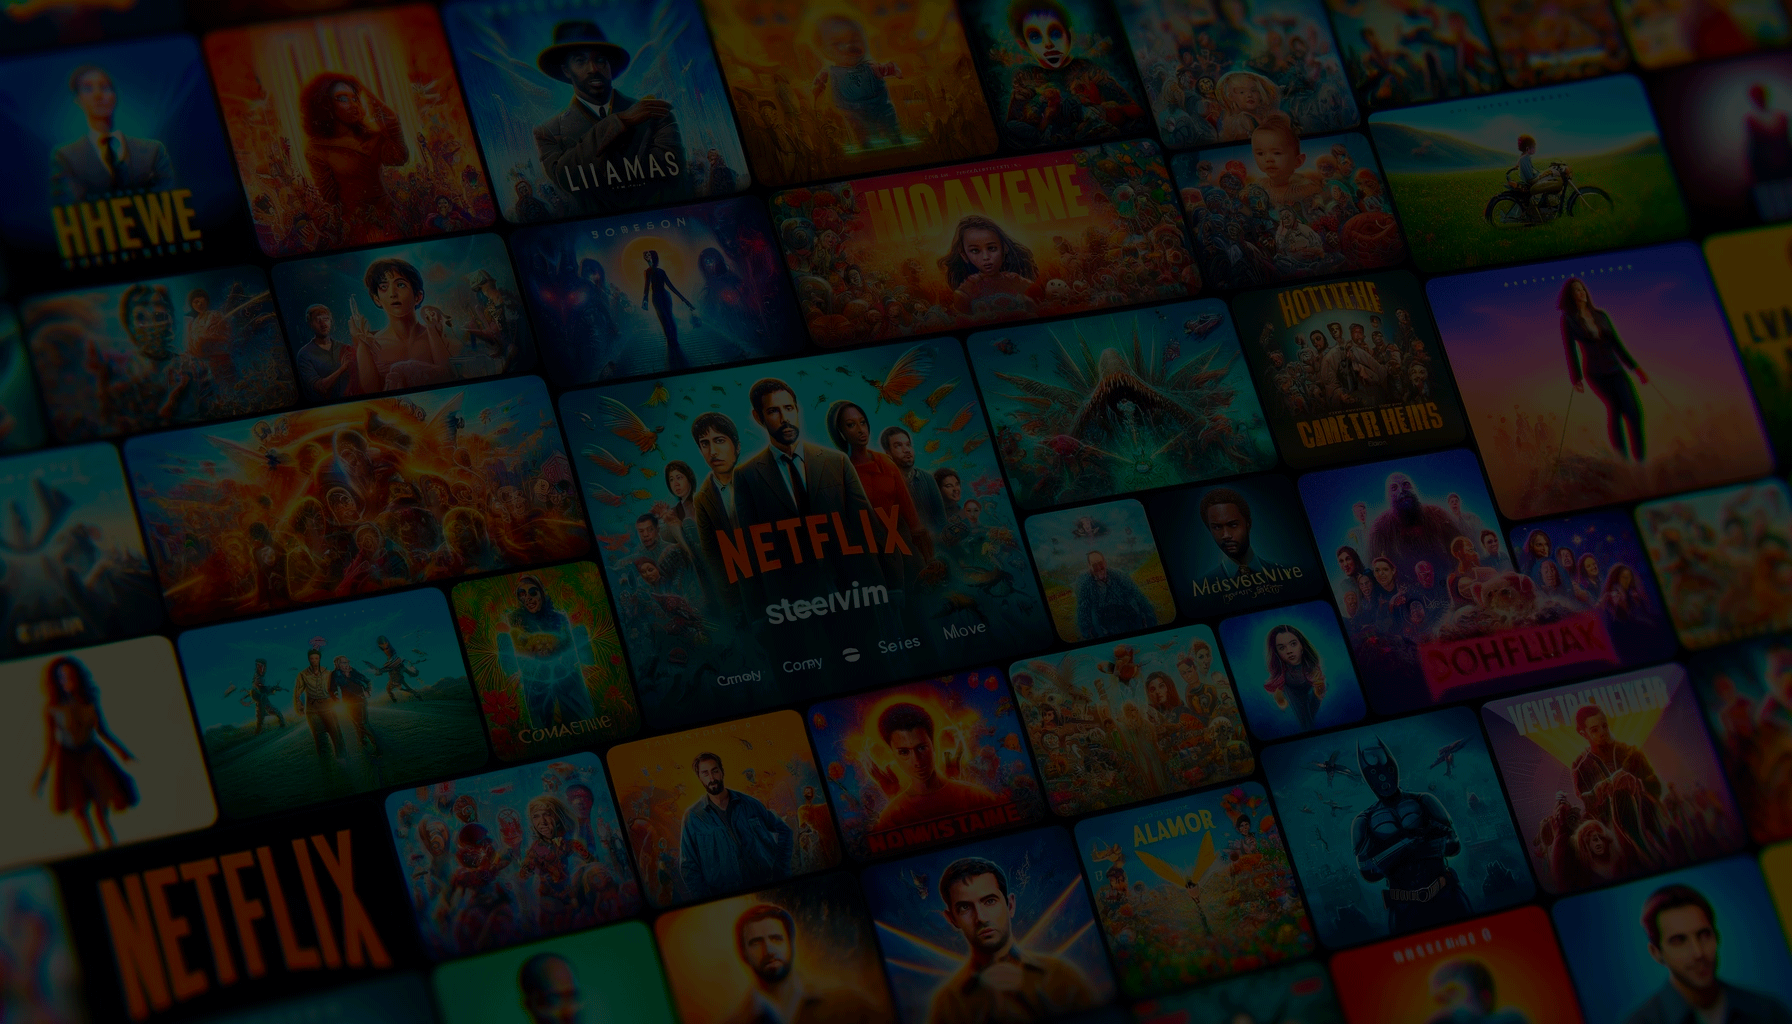
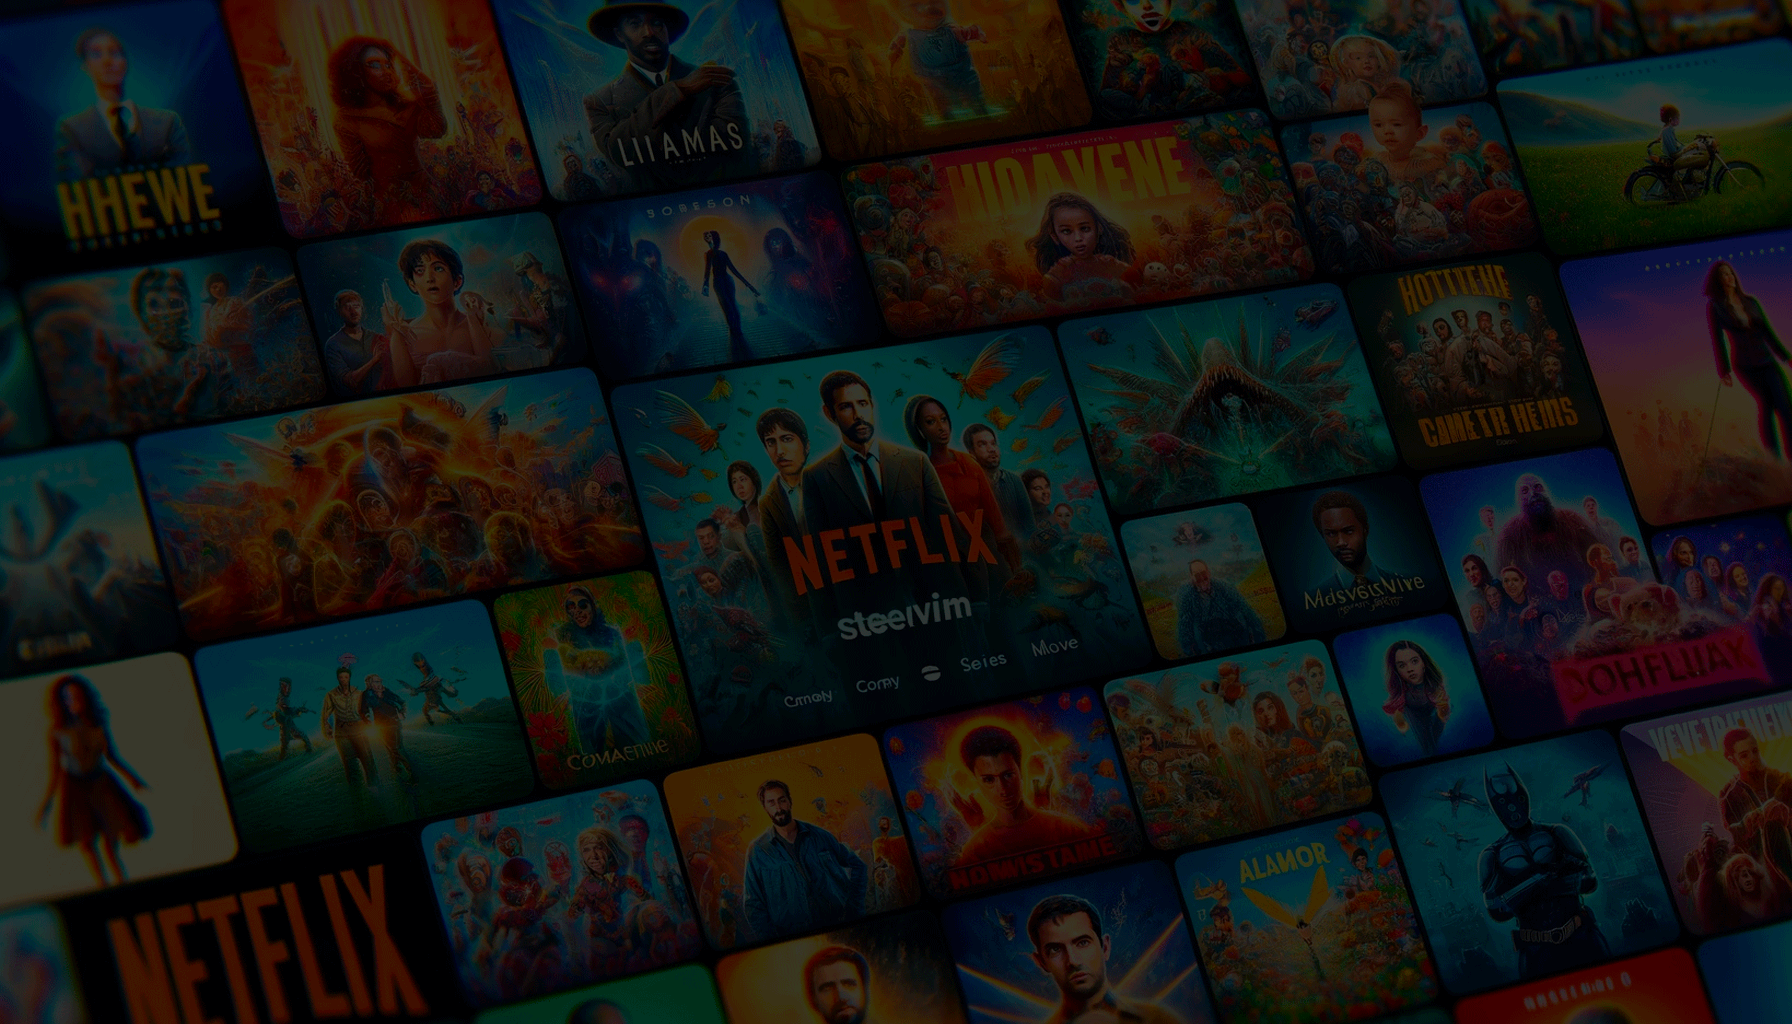
finish carousel + add login button and road with helpers

diff --git a/Frontend/components/login/SignUp.vue b/Frontend/components/login/SignUp.vue
@@ -1,14 +1,25 @@
 <script setup lang="ts">
 import { FontAwesomeIcon } from "@fortawesome/vue-fontawesome";
 import SignupForm from "~/components/login/SignupForm.vue";
+import { RouteHelper } from "~/helpers/route-helper";
+
+const onClickNavigateToLoginPage = () => {
+  navigateTo(RouteHelper.LOGIN);
+};
 </script>
 
 <template>
-  <div class="z-20">
+  <div class="z-20 relative">
     <NetlixTitle />
+    <p
+      class="bg-[#E50914] text-white p-1.5 text-lg font-bold rounded-md w-1/12 absolute right-8 top-16 cursor-pointer text-center"
+      @click="onClickNavigateToLoginPage"
+    >
+      Login
+    </p>
   </div>
   <div class="relative">
-    <v-carousel height="" hide-delimiters show-arrows="hover">
+    <v-carousel height="980" hide-delimiters show-arrows="hover">
       <v-carousel-item src="/carousel-signup/signup_bg.png" cover class="z-0">
         <div class="h-full flex flex-col justify-center">
           <h2 class="text-white text-5xl w-1/3 pl-28 font-semibold">
@@ -21,7 +32,7 @@ import SignupForm from "~/components/login/SignupForm.vue";
         </div>
       </v-carousel-item>
       <v-carousel-item
-        src="/carousel-signup/christmas_series.png"
+        src="/carousel-signup/christmas_series.webp"
         cover
         class="z-0"
       >
@@ -49,11 +60,31 @@ import SignupForm from "~/components/login/SignupForm.vue";
           <SignupForm />
         </div>
       </v-carousel-item>
-      <v-carousel-item
-        src="/carousel-signup/the_crown.jpeg"
-        fill
-        class="z-0"
-      ></v-carousel-item>
+      <v-carousel-item src="/carousel-signup/the_crown.webp" cover class="z-0">
+        <div class="h-full flex flex-col justify-center">
+          <div>
+            <p
+              class="text-lg ml-28 bg-[#040F03]/50 rounded-lg w-fit p-2 font-semibold"
+            >
+              <font-awesome-icon icon="fire" class="text-[#FF8A15] mr-2" /><span
+                class="text-white"
+                >Tendances actuelles</span
+              >
+            </p>
+            <img
+              src="/carousel-signup/the_crown_paragraph.webp"
+              alt="Fête de Noël"
+              class="pl-28 h-14 py-3"
+            />
+            <p class="text-white text-base my-3 w-[38%] pl-28 mt-5">
+              Inspirée de faits réels, cette adaptation retrace l'histoire de la
+              reine Élisabeth II, évoquant les événements politiques et
+              personnels qui ont marqué son règne.
+            </p>
+          </div>
+          <SignupForm />
+        </div>
+      </v-carousel-item>
     </v-carousel>
   </div>
 </template>

diff --git a/Frontend/components/NetlixTitle.vue b/Frontend/components/NetlixTitle.vue
@@ -1,5 +1,11 @@
 <template>
   <div class="flex justify-center lg:block lg:mt-0">
-    <img src="https://fontmeme.com/permalink/231203/f3be64cfdd4aabfcccf33479f5a48e78.png" alt="logo netflix" class=" lg:text-6xl text-[#E50914] lg:font-extrabold lg:p-10 lg:absolute"/>
+    <div>
+      <img
+        src="https://fontmeme.com/permalink/231203/f3be64cfdd4aabfcccf33479f5a48e78.png"
+        alt="logo netflix"
+        class="lg:text-6xl text-[#E50914] lg:font-extrabold lg:p-10 lg:absolute"
+      />
+    </div>
   </div>
 </template>
